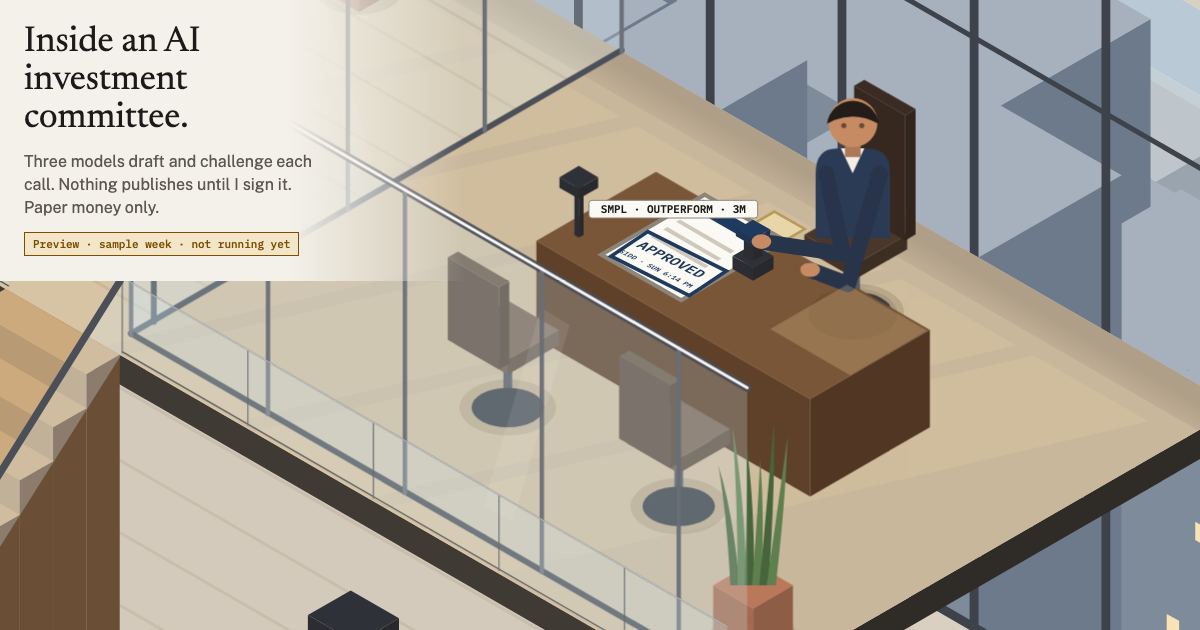
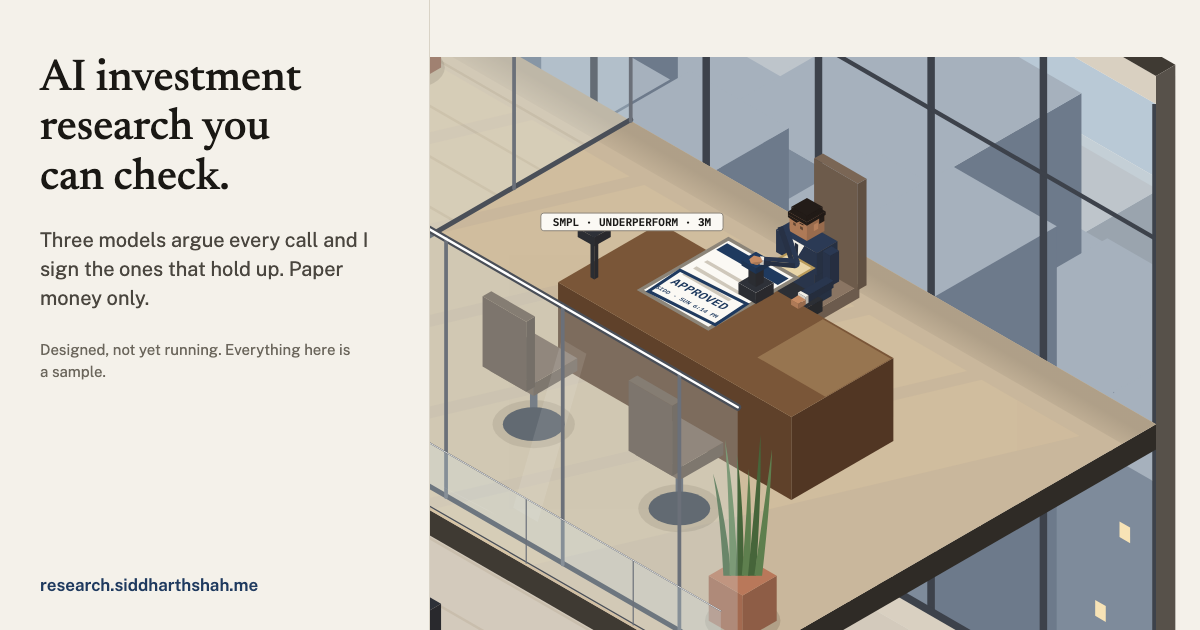
feat(site): refresh the preview image and calm the seat cards (#15)
The link preview shows the new headline and art, hover no longer pauses the replay, and the phone sheet sits over the caption so the office stays in view.

diff --git a/docs/assets/cards.js b/docs/assets/cards.js
@@ -1,8 +1,8 @@
 /* Seat cards on the homepage office. Each tag on the art is a button (home.js builds them); this opens a small card for the seat:
    Can't, Reads, This week. Refusal first. Facts come from the seven stops on desk.html; the "This week" line is read from sample.js.
-   Opening a card pauses the replay (HLR.pause). Closing never resumes it; the play control does.
+   Pinning a card (click, tap, Enter, a #seat= link) pauses the replay (HLR.pause); a hover preview does not. Closing never resumes it; the play control does.
    Desktop: hover or keyboard focus previews, a click pins; Esc or a click elsewhere closes.
-   Phone (coarse pointer or narrow): a bottom sheet with a close button, kept above the caption when there is room.
+   Phone (coarse pointer or narrow): a bottom sheet with a close button, over the caption card so the art stays in view.
    Deep link: #seat=analyst|risk|chair|sidd|scripts|record opens that card. */
 (function () {
   var tags = document.getElementById('tags'), stage = document.getElementById('office');
@@ -83,7 +83,7 @@
     card.style.left = card.style.top = card.style.bottom = '';
     if (sheet) {
       var now = document.querySelector('.now'), r = now && now.getBoundingClientRect(), vh = innerHeight, bottom = 8;
-      if (r && r.top > 0 && r.bottom <= vh + 1 && r.top - 56 > card.offsetHeight + 16) bottom = Math.round(vh - r.top + 8); // above the caption, so the status line stays readable
+      if (r && r.top > 0 && r.bottom <= vh + 1) bottom = Math.round(vh - r.bottom); // over the caption card (the replay is paused), so the art stays in view and the status line below stays readable
       card.style.bottom = bottom + 'px'; return;
     }
     var st = stage.getBoundingClientRect(), W0 = st.width, H0 = st.height, cw = card.offsetWidth, chh = card.offsetHeight;
@@ -110,7 +110,7 @@
     btns.forEach(function (b) { b.setAttribute('aria-expanded', String(b.getAttribute('data-k') === k)); });
     place();
     if (pin) setHash(true);
-    if (window.HLR && HLR.pause) HLR.pause();
+    if (pin && window.HLR && HLR.pause) HLR.pause(); // a hover preview never stops the replay; pinning does
     if (pin && opts && opts.focus) xBtn.focus();
   }
   function close(back) {

diff --git a/docs/index.html b/docs/index.html
@@ -10,7 +10,7 @@
 <meta property="og:title" content="High Leverage Research: AI investment research you can check">
 <meta property="og:description" content="Three models argue every call and I sign the ones that hold up. Each call is sealed before the market answers and scored in public, misses included. Paper money only.">
 <meta property="og:url" content="https://research.siddharthshah.me/">
-<meta property="og:image" content="https://research.siddharthshah.me/assets/og.png?v=10249724">
+<meta property="og:image" content="https://research.siddharthshah.me/assets/og.png?v=90e436eb">
 <meta property="og:image:width" content="1200">
 <meta property="og:image:height" content="630">
 <meta property="og:image:alt" content="An isometric two-floor office. Sidd, the portfolio manager, stamps a call approved at his desk.">
@@ -21,7 +21,7 @@
 <link rel="stylesheet" href="assets/tokens.css?v=758c9adf">
 <link rel="stylesheet" href="assets/site.css?v=77429205">
 <link rel="stylesheet" href="assets/home.css?v=aa9d2071">
-<link rel="stylesheet" href="assets/cards.css?v=9b969d7f">
+<link rel="stylesheet" href="assets/cards.css?v=75e3c0ea">
 <link rel="stylesheet" href="assets/call.css?v=cc29440d">
 <link rel="stylesheet" href="assets/funnel.css?v=c0f4f4ca">
 </head>
@@ -88,7 +88,7 @@
 <script src="assets/sample.js?v=3184977b"></script>
 <script src="assets/floor.js?v=23644974"></script>
 <script src="assets/home.js?v=21c49e2e"></script>
-<script src="assets/cards.js?v=d360307c"></script>
+<script src="assets/cards.js?v=c8fd2d38"></script>
 <script src="assets/call.js?v=53c2b5f7"></script>
 <script src="assets/funnel.js?v=cc613f2f"></script>
 <script src="assets/nav.js?v=57650d35"></script>

diff --git a/docs/assets/cards.css b/docs/assets/cards.css
@@ -24,8 +24,10 @@
 .seatcard-x:hover{background:var(--bg)}
 .seatcard-x:focus-visible{outline:2px solid var(--ink);outline-offset:-4px}
 
-.seatcard.sheet{position:fixed;left:var(--s2);right:var(--s2);width:auto;max-width:none;max-height:calc(100svh - 72px);overflow:auto;z-index:40;padding:var(--s4)}
-.seatcard.sheet dd{font-size:var(--fs-base);line-height:1.4}
+.seatcard.sheet{position:fixed;left:var(--s2);right:var(--s2);width:auto;max-width:none;max-height:calc(100svh - 72px);overflow:auto;z-index:40;padding:var(--s3) var(--s4)}
+.seatcard.sheet .seatcard-t{margin-bottom:var(--s1,4px)}
+.seatcard.sheet dl{gap:var(--s1,4px) var(--s3)}
+.seatcard.sheet dd{font-size:15px;line-height:1.35}
 @media (max-width:360px){
   .seatcard dl{grid-template-columns:1fr;gap:0}
   .seatcard dd{margin-bottom:var(--s2)}

diff --git a/docs/desk.html b/docs/desk.html
@@ -10,7 +10,7 @@
 <meta property="og:title" content="How it works · High Leverage Research">
 <meta property="og:description" content="One call, start to finish: scripts, three model seats, and a human signature before anything publishes. Paper money, designed but not yet running.">
 <meta property="og:url" content="https://research.siddharthshah.me/desk.html">
-<meta property="og:image" content="https://research.siddharthshah.me/assets/og.png?v=10249724">
+<meta property="og:image" content="https://research.siddharthshah.me/assets/og.png?v=90e436eb">
 <meta property="og:image:width" content="1200">
 <meta property="og:image:height" content="630">
 <meta property="og:image:alt" content="An isometric two-floor office. Sidd, the portfolio manager, stamps a call approved at his desk.">

diff --git a/docs/notes.html b/docs/notes.html
@@ -10,7 +10,7 @@
 <meta property="og:title" content="Design notes · High Leverage Research">
 <meta property="og:description" content="The choices behind the desk, why I made them and what each costs. Paper money, designed but not yet running.">
 <meta property="og:url" content="https://research.siddharthshah.me/notes.html">
-<meta property="og:image" content="https://research.siddharthshah.me/assets/og.png?v=10249724">
+<meta property="og:image" content="https://research.siddharthshah.me/assets/og.png?v=90e436eb">
 <meta property="og:image:width" content="1200">
 <meta property="og:image:height" content="630">
 <meta property="og:image:alt" content="An isometric two-floor office. Sidd, the portfolio manager, stamps a call approved at his desk.">

diff --git a/docs/record.html b/docs/record.html
@@ -10,7 +10,7 @@
 <meta property="og:title" content="The record · High Leverage Research">
 <meta property="og:description" content="Every call, numbered and dated. Losses stay up at the same size as wins. Sample week today.">
 <meta property="og:url" content="https://research.siddharthshah.me/record.html">
-<meta property="og:image" content="https://research.siddharthshah.me/assets/og.png?v=10249724">
+<meta property="og:image" content="https://research.siddharthshah.me/assets/og.png?v=90e436eb">
 <meta property="og:image:width" content="1200">
 <meta property="og:image:height" content="630">
 <meta property="og:image:alt" content="An isometric two-floor office. Sidd, the portfolio manager, stamps a call approved at his desk.">
